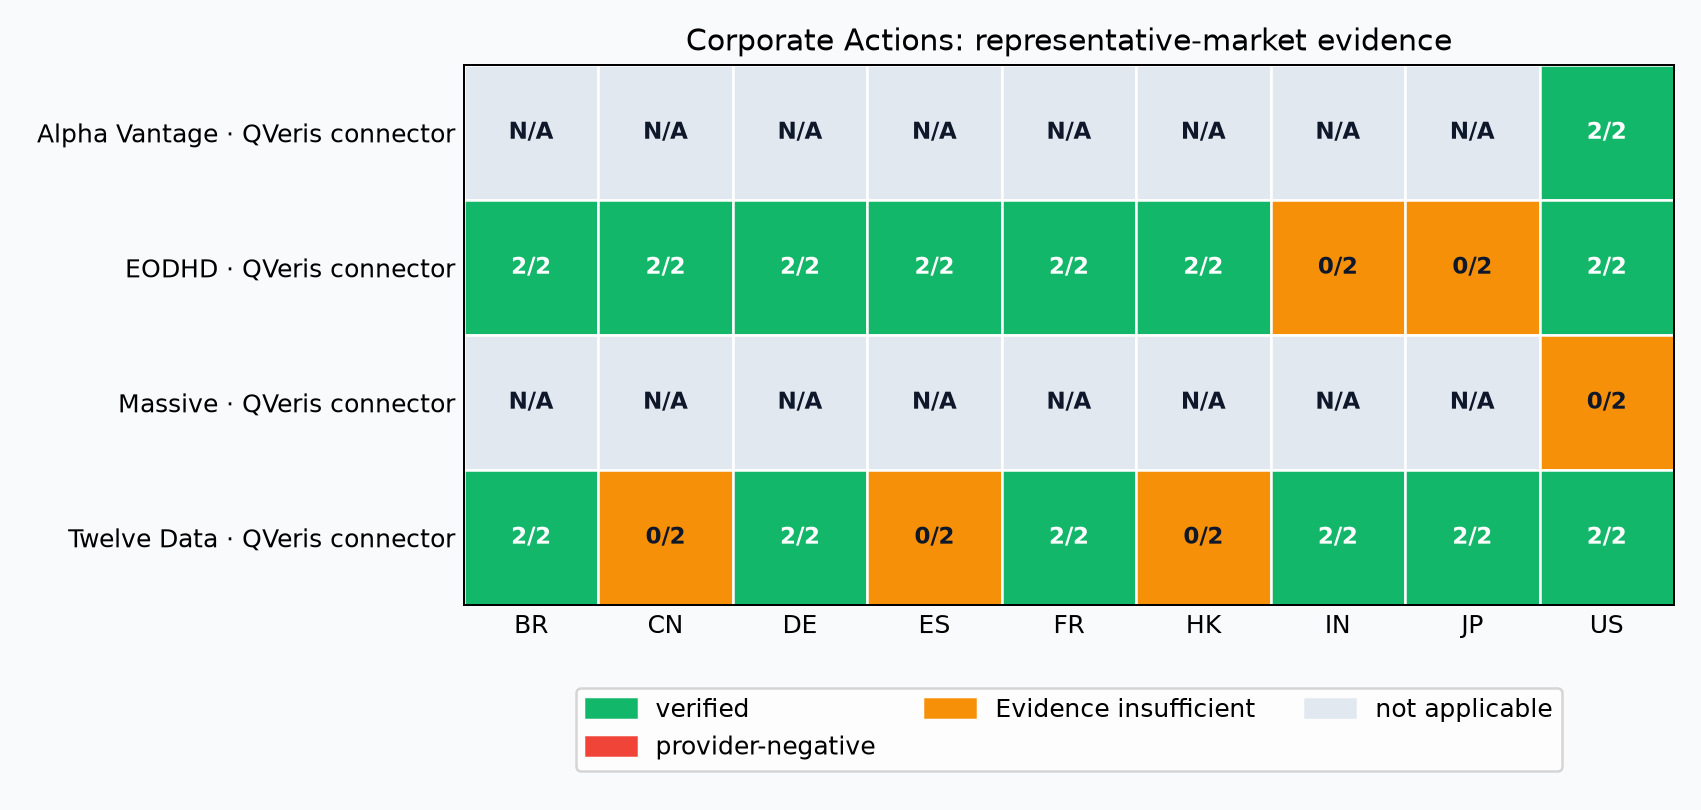
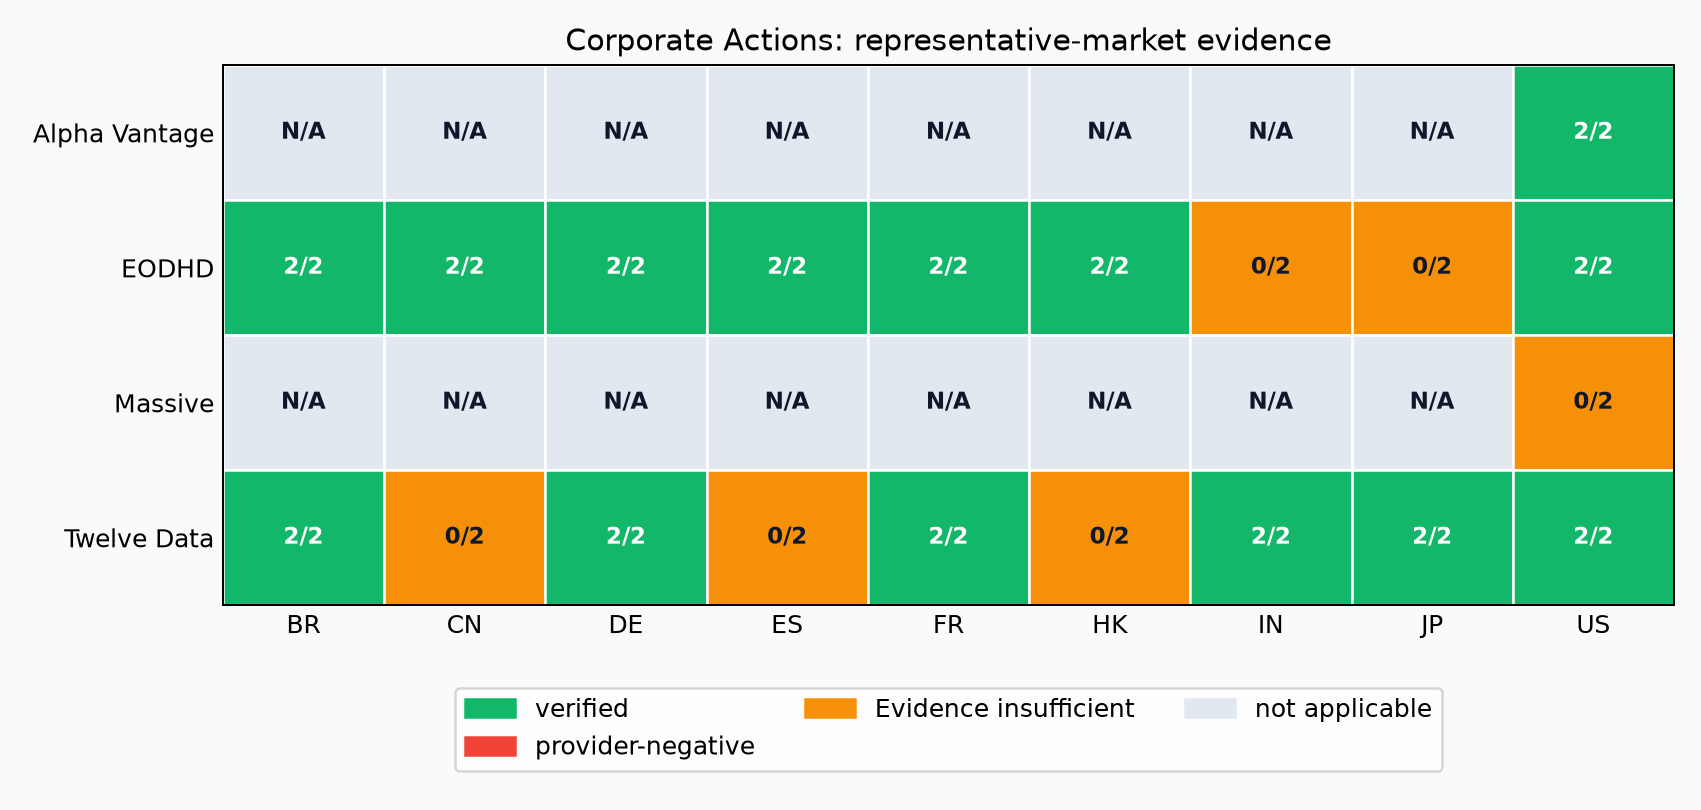
fix: simplify CAP market chart labels
Keep repeated Access Path wording out of single-path chart rows while preserving distinct identities when one Provider has multiple paths.

diff --git a/tests/articles/test_factory_acceptance.py b/tests/articles/test_factory_acceptance.py
@@ -13,6 +13,9 @@ from typer.testing import CliRunner
 
 from qveris_bench.articles.factory import (
     ArticleBuildError,
+    _load_snapshot,
+    _market_rows,
+    _render_market_chart,
     build_article_package,
     reproduce_article_package,
 )
@@ -192,6 +195,59 @@ def test_corporate_actions_v2_article_projects_nine_markets_and_all_live_evidenc
         env={**os.environ, "UV_CACHE_DIR": str(tmp_path / "uv-cache")},
     )
     assert reproduced.returncode == 0, reproduced.stderr
+
+
+def test_ac1_market_chart_omits_redundant_access_path_type(tmp_path: Path) -> None:
+    rows = tuple(
+        sorted(
+            _load_snapshot(CORPORATE_ACTIONS_V2_SNAPSHOT).rows,
+            key=lambda row: (row.provider_name, row.access_path_id),
+        )
+    )
+    chart = tmp_path / "market-coverage.svg"
+
+    _render_market_chart(
+        _market_rows(rows),
+        {row.provider_id: row.provider_name for row in rows},
+        "Corporate Actions",
+        chart,
+    )
+
+    rendered = chart.read_text(encoding="utf-8")
+    assert "<!-- Alpha Vantage -->" in rendered, "AC1: Provider label is missing"
+    assert "QVeris connector" not in rendered, "AC1: repeated path type remains"
+
+
+def test_ac2_market_chart_distinguishes_multiple_paths_for_one_provider(
+    tmp_path: Path,
+) -> None:
+    row = _market_rows((_load_snapshot(CORPORATE_ACTIONS_V2_SNAPSHOT).rows[0],))[0]
+    alternate = row.model_copy(update={"access_path_id": "alternate-qveris-path"})
+    chart = tmp_path / "market-coverage.svg"
+
+    _render_market_chart(
+        (row, alternate),
+        {row.provider_id: row.provider_name},
+        "Corporate Actions",
+        chart,
+    )
+
+    rendered = chart.read_text(encoding="utf-8")
+    assert row.access_path_id in rendered, "AC2: original Access Path is ambiguous"
+    assert alternate.access_path_id in rendered, "AC2: alternate Access Path is ambiguous"
+
+
+def test_ac4_article_skill_requires_non_redundant_chart_labels() -> None:
+    blueprint = (
+        ROOT / ".agents/skills/cap-article-writer/references/article-blueprint.md"
+    ).read_text(encoding="utf-8")
+
+    assert "omit a repeated Access Path type" in blueprint, (
+        "AC4: chart-label guidance is missing from the Article Writer Skill"
+    )
+    assert "retain enough Access Path identity" in blueprint, (
+        "AC4: duplicate Provider rows could become ambiguous"
+    )
 
 
 def test_corporate_actions_skill_article_matches_golden_reader_structure(

diff --git a/src/qveris_bench/articles/factory.py b/src/qveris_bench/articles/factory.py
@@ -6,6 +6,7 @@ import hashlib
 import json
 import platform
 import tempfile
+from collections import Counter
 from dataclasses import dataclass
 from pathlib import Path
 from typing import Any
@@ -1002,10 +1003,7 @@ def _render_market_chart(
     axis.set_xticks(range(len(markets)), markets)
     axis.set_yticks(
         range(len(rows)),
-        [
-            f"{display_names[row.provider_id]} · {_path_label(row.model_dump(mode='json'))}"
-            for row in rows
-        ],
+        _market_chart_labels(rows, display_names),
     )
     axis.tick_params(length=0)
     axis.set_title(f"{cap_label}: representative-market evidence")
@@ -1021,6 +1019,22 @@ def _render_market_chart(
     fig.tight_layout()
     fig.savefig(path, dpi=180)
     plt.close(fig)
+
+
+def _market_chart_labels(
+    rows: tuple[SelectionSnapshotRow, ...], display_names: dict[str, str]
+) -> list[str]:
+    names = [display_names[row.provider_id] for row in rows]
+    counts = Counter(names)
+    return [
+        name
+        if counts[name] == 1
+        else (
+            f"{name} · {_path_label(row.model_dump(mode='json'))} "
+            f"({row.access_path_id})"
+        )
+        for row, name in zip(rows, names, strict=True)
+    ]
 
 
 def _digest(value: bytes) -> str:

diff --git a/.agents/skills/cap-article-writer/references/article-blueprint.md b/.agents/skills/cap-article-writer/references/article-blueprint.md
@@ -9,6 +9,7 @@ Use this reader sequence:
 3. How developers should choose: provide at least four distinct scenarios. Each scenario must have a structured Access Path selection and evidence-backed trade-off.
 4. Evidence and Provider differences: use a dedicated `cap_explainer` to explain why the CAP is non-trivial and what the completion contract proves. Do not repeat the evidence-state definitions from Results at a glance.
 5. Chart explanations: explain axes, cells, denominators, observation scope, and why the chart changes a decision. Never merely repeat the title.
+   In chart row labels, omit a repeated Access Path type when each Provider appears once. If a Provider has multiple rows, retain enough Access Path identity to keep those observations distinct.
 6. Provider-by-Provider analysis: cover every Provider × Access Path once. Explain best fit, observed strength, observed risk, and evidence boundary.
 7. Agent integration: separate observed invalid-input behavior from unmeasured identity, schema, pagination, and semantic risks.
 8. Method, offline reproduction, live rerun, contribution, disclosure, correction policy, and FAQ.
